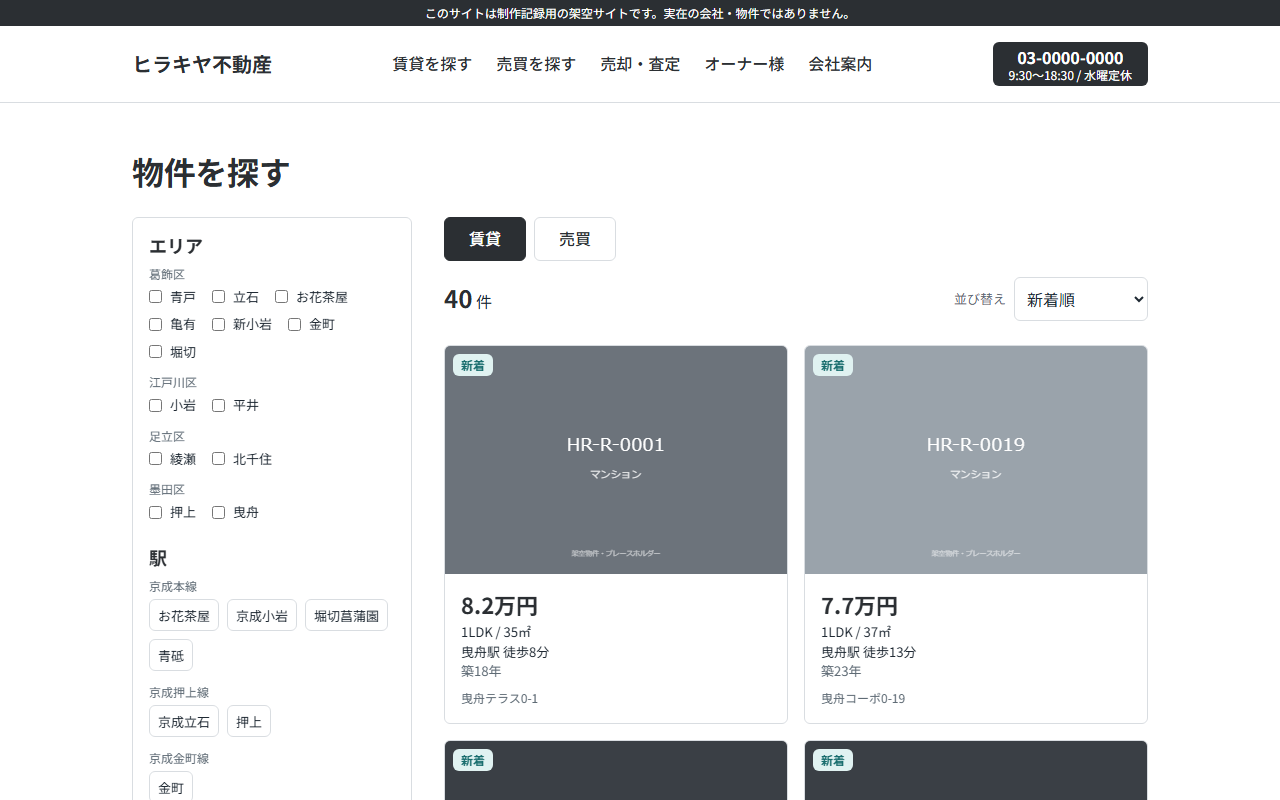
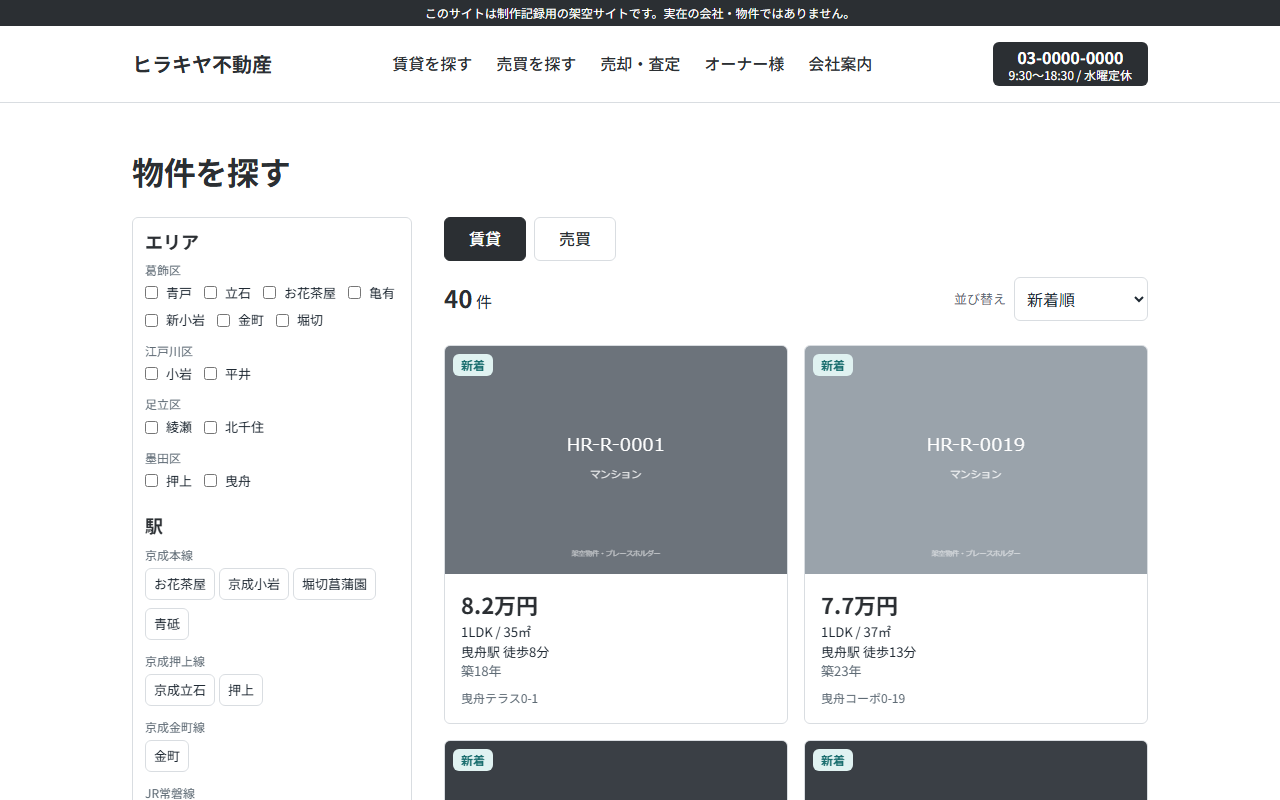
style: tighten filter panel spacing [J-034]

Changed region(s): [[0.0938, 0.2812, 0.3125, 1.0], [0.1875, 0.625, 0.2188, 0.6562], [0.1875, 0.5625, 0.2188, 0.5938]]

diff --git a/web/src/components/search/FilterPanel.tsx b/web/src/components/search/FilterPanel.tsx
@@ -84,7 +84,7 @@ export function FilterPanel({ value: q, onChange, terms }: { value: SearchQuery;
 				{serviceAreas.map((w) => (
 					<div key={w.ward} className="mb-3 last:mb-0">
 						<p className="mb-1 text-xs text-ink-weak lg:text-xs-pc">{w.ward}</p>
-						<div className="flex flex-wrap gap-x-4 gap-y-2">
+						<div className="flex flex-wrap gap-x-3 gap-y-2">
 							{w.towns.map((town) => {
 								const slug = areaSlugByName(town);
 								if (!slug) return null;
@@ -100,7 +100,7 @@ export function FilterPanel({ value: q, onChange, terms }: { value: SearchQuery;
 				{stationGroups.map((g) => (
 					<div key={g.line.slug} className="mb-3 last:mb-0">
 						<p className="mb-1 text-xs text-ink-weak lg:text-xs-pc">{g.line.name}</p>
-						<div className="flex flex-wrap gap-2">
+						<div className="flex flex-wrap gap-x-1 gap-y-2">
 							{g.items.map((t) => (
 								<Chip key={t.slug} label={t.name} pressed={q.station.includes(t.slug)} onClick={() => toggle('station', t.slug)} />
 							))}
@@ -129,7 +129,7 @@ export function FilterPanel({ value: q, onChange, terms }: { value: SearchQuery;
 
 			{q.type === 'rental' ? (
 				<Group title="間取り">
-					<div className="flex flex-wrap gap-x-4 gap-y-2">
+					<div className="flex flex-wrap gap-x-3 gap-y-2">
 						{LAYOUTS.map((l) => (
 							<Check key={l} label={l} checked={q.layout.includes(l)} onChange={() => toggle('layout', l)} />
 						))}
@@ -137,7 +137,7 @@ export function FilterPanel({ value: q, onChange, terms }: { value: SearchQuery;
 				</Group>
 			) : (
 				<Group title="種目">
-					<div className="flex flex-wrap gap-x-4 gap-y-2">
+					<div className="flex flex-wrap gap-x-3 gap-y-2">
 						{terms.kind
 							.filter((k) => ['mansion', 'house', 'land'].includes(k.slug))
 							.map((k) => (
@@ -170,7 +170,7 @@ export function FilterPanel({ value: q, onChange, terms }: { value: SearchQuery;
 					</Group>
 					{q.type === 'rental' && (
 						<Group title="設備・条件">
-							<div className="flex flex-wrap gap-x-4 gap-y-2">
+							<div className="flex flex-wrap gap-x-3 gap-y-2">
 								{visibleFeatures.map((t) => (
 									<Check key={t.slug} label={t.name} checked={q.feature.includes(t.slug)} onChange={() => toggle('feature', t.slug)} />
 								))}

diff --git a/web/src/components/search/SearchResults.tsx b/web/src/components/search/SearchResults.tsx
@@ -82,7 +82,7 @@ export function SearchResults({ all, terms, nowIso }: { all: PropertySummary[]; 
 			{/* PC:左サイドの絞り込み(常時) */}
 			<aside className="hidden lg:block">
 				{/* ヘッダー直下(compact 時の高さ 61px → top 64)に固定。上限は 画面高 − ヘッダー高 − 余白 16、超える分はカラム内でスクロール(J-034) */}
-				<div className="sticky top-16 max-h-[calc(100dvh-4rem-1rem)] overflow-y-auto rounded-hr border border-line p-4 [scrollbar-width:thin]">
+				<div className="sticky top-16 max-h-[calc(100dvh-4rem-1rem)] overflow-y-auto rounded-hr border border-line p-3 [scrollbar-width:thin]">
 					<FilterPanel value={q} onChange={change} terms={terms} />
 				</div>
 			</aside>

diff --git a/docs/記録シート.md b/docs/記録シート.md
@@ -318,7 +318,7 @@
 - **自分の判断**:却下+条件追加 — 折りたたみは不採用。駅は「一目で見える」ことを優先し、チップ(丸角のトグルボタン)を沿線ごとに横流しで並べる。沿線グループ化(J-033 判断 10)は維持し、複数沿線にまたがる駅の重複表示は許容。選択中は青緑の塗り、未選択は枠のみ。対象は PC 左カラムとドロワーの両方。エリアのチェックボックスは触らない。実装前に条件追加:PC の左カラムはヘッダー直下に sticky、高さは「画面高 − ヘッダー高」を上限にし、はみ出す分はカラム内でスクロール(標準の細いスクロールバー)。ドロワーは対象外
 - **判断の出所**:
 - **修正後**:FilterPanel の駅を Chip(aria-pressed・高さ 40/32・角丸 6px・青緑塗り/灰線枠)に。沿線グループは各路線に駅を出す(重複可)。SearchResults の左カラムを sticky top-16・max-h calc(100dvh − 4rem − 1rem)・overflow-y auto・scrollbar-width thin に。選択ロジック・URL 同期は不変。03 §6・§7 に追記し v0.6
-- **追記(09/09)**:SHIN「左カラムが一度に見えないのは仕方ないか」→ 見せる優先順位を決めて条件追加。A PC の左カラムも「常時表示+詳細条件」の2段(常時 = エリア / 駅 / 家賃 / 間取り。詳細条件 = 築年数 / 面積 / 設備・条件を折りたたみ・初期は閉・選択中の件数を見出しに)。ドロワー側は J-033 判断 8 のまま(同じコンポーネントなので構成は一致)。B 駅チップの重複をなくす:複数沿線の駅は site.ts の lines 順で最初の沿線にだけ置く(「重複は許容」の条件を取り消し、これで置き換え)。C 設備・条件は上位6つ+「もっと見る」。上位6つの選び方は AI 初案「02 §2 の並びの先頭6つ(ペット可 / オートロック / 駐車場 / 宅配ボックス / バス・トイレ別 / 独立洗面)」を SHIN が採用。制約:チップ・sticky・内部スクロール維持、開閉は J-031 のトランジション、選択ロジック・URL 同期は不変、折りたたみ状態は URL に入れない。補足:A の振り分けに「駅徒歩」が挙がっていなかったため、J-033 判断 8 のとおり詳細条件側に置いた。03 §6 を更新し v0.12
+- **追記(09/09)**:SHIN「左カラムが一度に見えないのは仕方ないか」→ 見せる優先順位を決めて条件追加。A PC の左カラムも「常時表示+詳細条件」の2段(常時 = エリア / 駅 / 家賃 / 間取り。詳細条件 = 築年数 / 面積 / 設備・条件を折りたたみ・初期は閉・選択中の件数を見出しに)。ドロワー側は J-033 判断 8 のまま(同じコンポーネントなので構成は一致)。B 駅チップの重複をなくす:複数沿線の駅は site.ts の lines 順で最初の沿線にだけ置く(「重複は許容」の条件を取り消し、これで置き換え)。C 設備・条件は上位6つ+「もっと見る」。上位6つの選び方は AI 初案「02 §2 の並びの先頭6つ(ペット可 / オートロック / 駐車場 / 宅配ボックス / バス・トイレ別 / 独立洗面)」を SHIN が採用。制約:チップ・sticky・内部スクロール維持、開閉は J-031 のトランジション、選択ロジック・URL 同期は不変、折りたたみ状態は URL に入れない。補足:A の振り分けに「駅徒歩」が挙がっていなかったため、J-033 判断 8 のとおり詳細条件側に置いた。03 §6 を更新し v0.12。条件追加(09/09・「エリアと駅の右側の余白を生かしてスペースを節約したい」):エリアのチェックを横並び折り返しに(初案から flex-wrap だったため変更なし)、左カラム内側の左右余白を 16 → 12、チップの横間隔 8 → 4、チェック項目の横間隔 16 → 12(縦の間隔と高さは不変)。ドロワーは同じ部品なので間隔は同じ変更、ドロワー自身の左右余白 16 は 03 §5 のスマホ余白のため据え置き
 - **判断の出所(追記分)**:
 - **証拠**:docs/screenshots/J-034-before-{1280,375}.png / J-034-after-{1280,1280-scrolled,375}.png / J-034-before2-{1280,375}.png / J-034-after2-{1280,1280-open,375}.png・本チャット
 

diff --git a/docs/03-デザイン基準.md b/docs/03-デザイン基準.md
@@ -94,7 +94,7 @@
 
 **チップ(トグル)**:角丸 6px・高さ 40(スマホ)/ 32(PC)・13px・内側余白 8(J-035)。選択中は青緑の塗り+白文字、未選択は灰線の枠+墨文字。駅フィルターに使う(沿線ごとに横流し。複数路線の駅は config の lines 順で最初の沿線にだけ置く・重複なし・J-034)
 
-**絞り込み欄の構成(PC 左カラム・ドロワー共通・J-034)**:常時表示 = エリア / 駅 / 家賃(価格)/ 間取り(種目)。「詳細条件」(details・初期は閉・選択中の件数を見出しに)= 駅徒歩 / 築年数 / 面積 / 設備・条件。設備は 02 §2 の順で上位6つを表示し、残りは「もっと見る」で展開。折りたたみの状態は URL に入れない
+**絞り込み欄の構成(PC 左カラム・ドロワー共通・J-034)**:常時表示 = エリア / 駅 / 家賃(価格)/ 間取り(種目)。「詳細条件」(details・初期は閉・選択中の件数を見出しに)= 駅徒歩 / 築年数 / 面積 / 設備・条件。設備は 02 §2 の順で上位6つを表示し、残りは「もっと見る」で展開。折りたたみの状態は URL に入れない。余白:左カラム内側 12(カード内と同じ段)、チップの横間隔 4・チェック項目の横間隔 12(縦は 8 のまま)。エリア・間取り・設備のチェックは横並び折り返し(J-034)
 
 **フォーム入力**:高さ 46・枠 `#D9DDE1`・focus は青緑 2px。ラベルは上・13px・灰。必須は「必須」の文字(赤の * は使わない)。エラーは入力の下に赤文字で「何が・どう直すか」。
 
